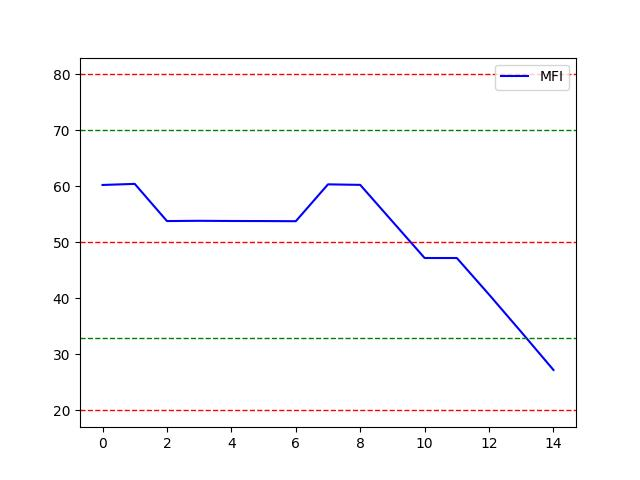
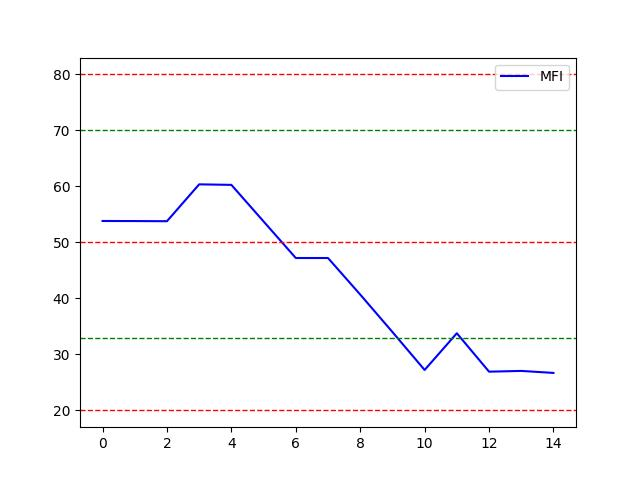
update code

diff --git a/KFinace/Kf_function.py b/KFinace/Kf_function.py
@@ -1,6 +1,12 @@
 from vnstock3.botbuilder.noti import Messenger
+from vnstock3.explorer.misc.gold_price import *
+from vnstock3.explorer.misc.exchange_rate import *
 from datetime import datetime,timedelta,date
 import json
+import matplotlib.pyplot as plt
+import Kf_index as KF
+from telegram import Bot
+import asyncio
 
 
 with open('/home/kiendt/code/ETL/KFinace/Key_info.json') as f:
@@ -8,8 +14,52 @@ with open('/home/kiendt/code/ETL/KFinace/Key_info.json') as f:
 
 # stock = "MML"
 # path = f'/home/kiendt/code/ETL/data/{stock}.jpg'
-def send_tele(stock, path):
-    start = (datetime.today() - timedelta(days=21)).strftime('%Y-%m-%d')
+def send_tele(header,path,type):
     end = datetime.today().strftime('%Y-%m-%d')
     noti = Messenger(platform='telegram', channel=data['telegram']['channel'], token_key=data['telegram']['token'])
-    noti.send_message(message=f'{stock} information in {end}', file_path= path,title=f'MFI index in {end}')
+    if type == 'stock':
+        noti.send_message(message=f'{header} information in {end}', file_path= path,title=f'MFI index in {end}')
+    if type == 'exchange':
+        noti.send_message(message=f'{header} exchange rate information in {end} of vietcombank', file_path= path,title=f'Exchange rate in {end}')
+
+def run_mfi(stocks, date):
+    for stock in stocks:
+        path = f'/home/kiendt/code/ETL/KFinace/data/{stock}.jpg'
+        end = datetime.strptime(date, '%Y-%m-%d').date()
+        start = (end - timedelta(days=21)).strftime('%Y-%m-%d')
+        end = end.strftime('%Y-%m-%d')
+        df = KF.MFI(stock,start,end)['data']
+        base_list = df['time']
+        for i in base_list:
+            start = (i - timedelta(days=21)).strftime('%Y-%m-%d')
+            end = i.strftime('%Y-%m-%d')
+            MFI_value = KF.MFI(stock,start,end)['mfi']
+            df.loc[df['time'] == i,'MFI'] = MFI_value
+        chart = df.plot(kind = 'line',y = 'MFI', color = 'blue')
+        for y in [20, 50, 80]:
+            chart.axhline(y=y, color='r', linestyle='--', linewidth=1)
+        for y in [70, 33]:
+            chart.axhline(y=y, color='green', linestyle='--', linewidth=1)
+        plt.savefig(path)
+        send_tele(stock,path,'stock')
+
+def exchange_rate(date):
+    ex_path = f'/home/kiendt/code/ETL/KFinace/data/exchange_rate_{date}.csv'
+    df = vcb_exchange_rate(date=date)
+    df['buy _cash'] = df['buy _cash'].replace('-', '0').str.replace(',', '').astype(float)
+    df = df[df['buy _cash'] != 0]
+    df['sell'] = df['sell'].str.replace(',', '').astype(float)
+    df['exchange_rate'] = (df['buy _cash'] + df['sell'])/2
+    df.to_csv(ex_path)
+    bot = Bot(data['telegram']['token'])
+    with open(ex_path, "rb") as file:
+        asyncio.run(bot.send_document(chat_id=data['telegram']['channel'], document=file, caption="Here is your CSV file!"))
+
+def gold_price():
+    go_path = f'/home/kiendt/code/ETL/KFinace/data/gold_price_{date}.csv'
+    df = btmc_goldprice()
+    df.to_csv(go_path)
+    bot = Bot(data['telegram']['token'])
+    with open(go_path, "rb") as file:
+        asyncio.run(bot.send_document(chat_id=data['telegram']['channel'], document=file, caption="Here is your CSV file!"))
+

diff --git a/KFinace/Kf_index.py b/KFinace/Kf_index.py
@@ -1,12 +1,6 @@
-import os
-import requests
 import pandas as pd
 from urllib.parse import urljoin
-import requests
-from bs4 import BeautifulSoup
 from vnstock3 import Vnstock
-from vnstock3.explorer.misc.gold_price import *
-from vnstock3.explorer.misc.exchange_rate import *
 from vnstock3.botbuilder.noti import Messenger
 from datetime import datetime,timedelta,date
 import matplotlib.pyplot as plt

diff --git a/KFinace/main.py b/KFinace/main.py
@@ -1,0 +1,8 @@
+import Kf_function as Kff
+from datetime import datetime,timedelta,date
+
+date = datetime.today().strftime('%Y-%m-%d')
+# stocks = ['MML','VIC','TCB']
+# Kff.run_mfi(stocks,date)
+# Kff.exchange_rate(date)
+Kff.gold_price()
